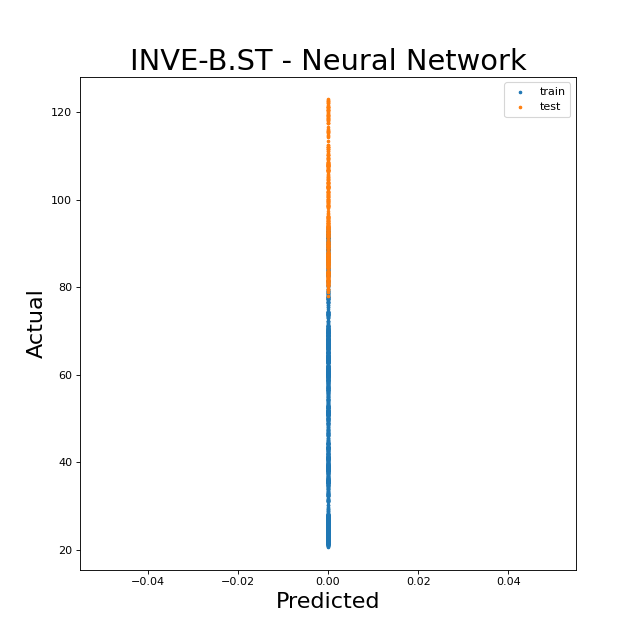
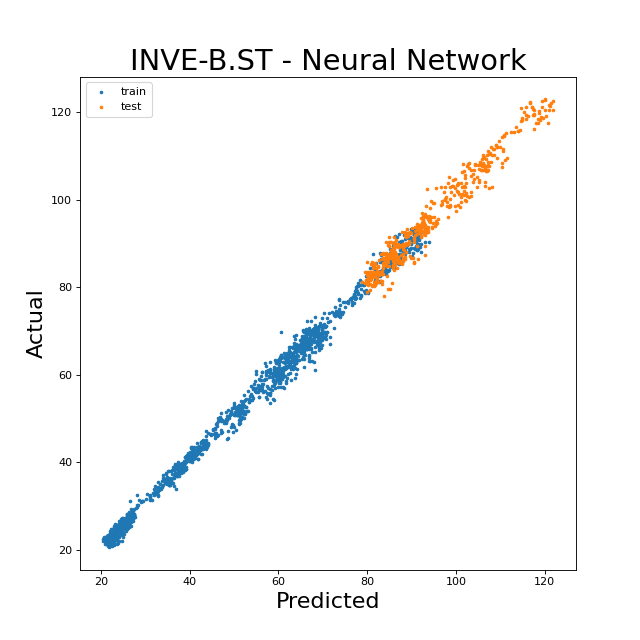
New INVE-B ANN results

diff --git a/main/mainTest.py b/main/mainTest.py
@@ -8,22 +8,22 @@ from SVRTest import SVRTest
 
 # Run the tests
 
-Stocks = {"^OMXSPI", "^OMX", "INVE-B.ST", "VOLV-B.ST", "TELIA.ST", "SOBI.ST", "HM-B.ST"}
+# Stocks = {"^OMXSPI", "^OMX", "INVE-B.ST", "VOLV-B.ST", "TELIA.ST", "SOBI.ST", "HM-B.ST"}
 
-# Stocks = {"^OMXSPI"}
+Stocks = {"INVE-B.ST"}
 
 Latex_dict = {}
 
 for Stock in Stocks:
-    # Latex_dict[Stock] = KNNTest(Stock)
+    Latex_dict[Stock] = ANNTest(Stock)
 
-    Latex_dict[Stock] = (
-        LinearTest(Stock),
-        KNNTest(Stock),
-        SVRTest(Stock),
-        RFTest(Stock),
-        ANNTest(Stock),
-    )
+    # Latex_dict[Stock] = (
+    #     LinearTest(Stock),
+    #     KNNTest(Stock),
+    #     SVRTest(Stock),
+    #     RFTest(Stock),
+    #     ANNTest(Stock),
+    # )
 
 # %%
 
